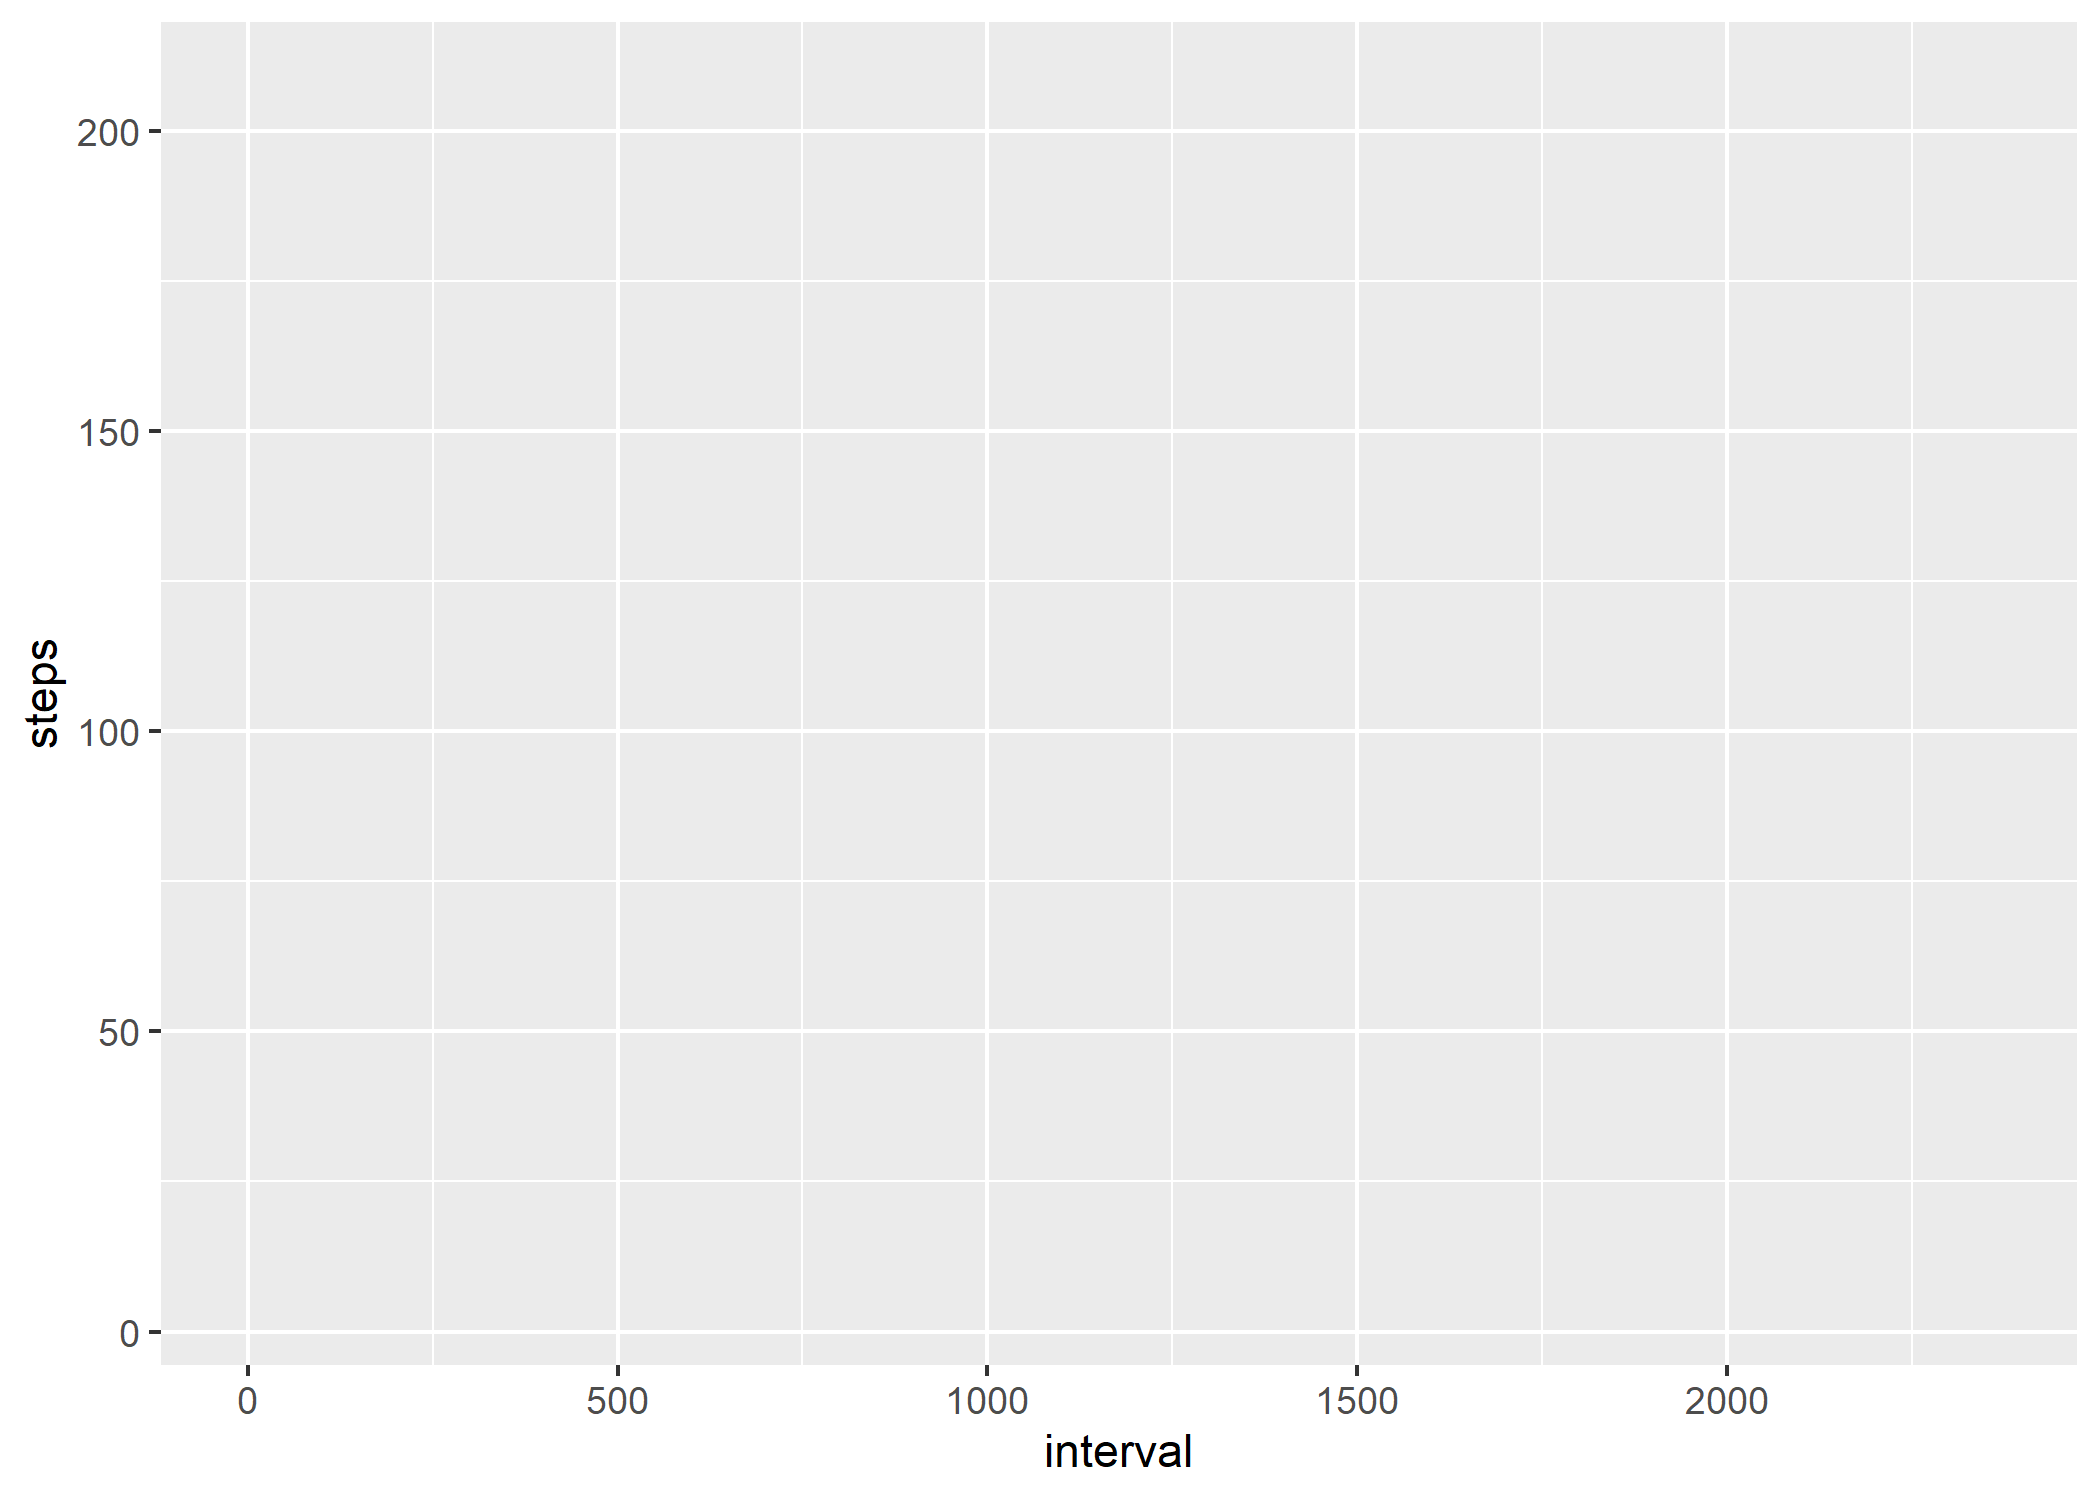
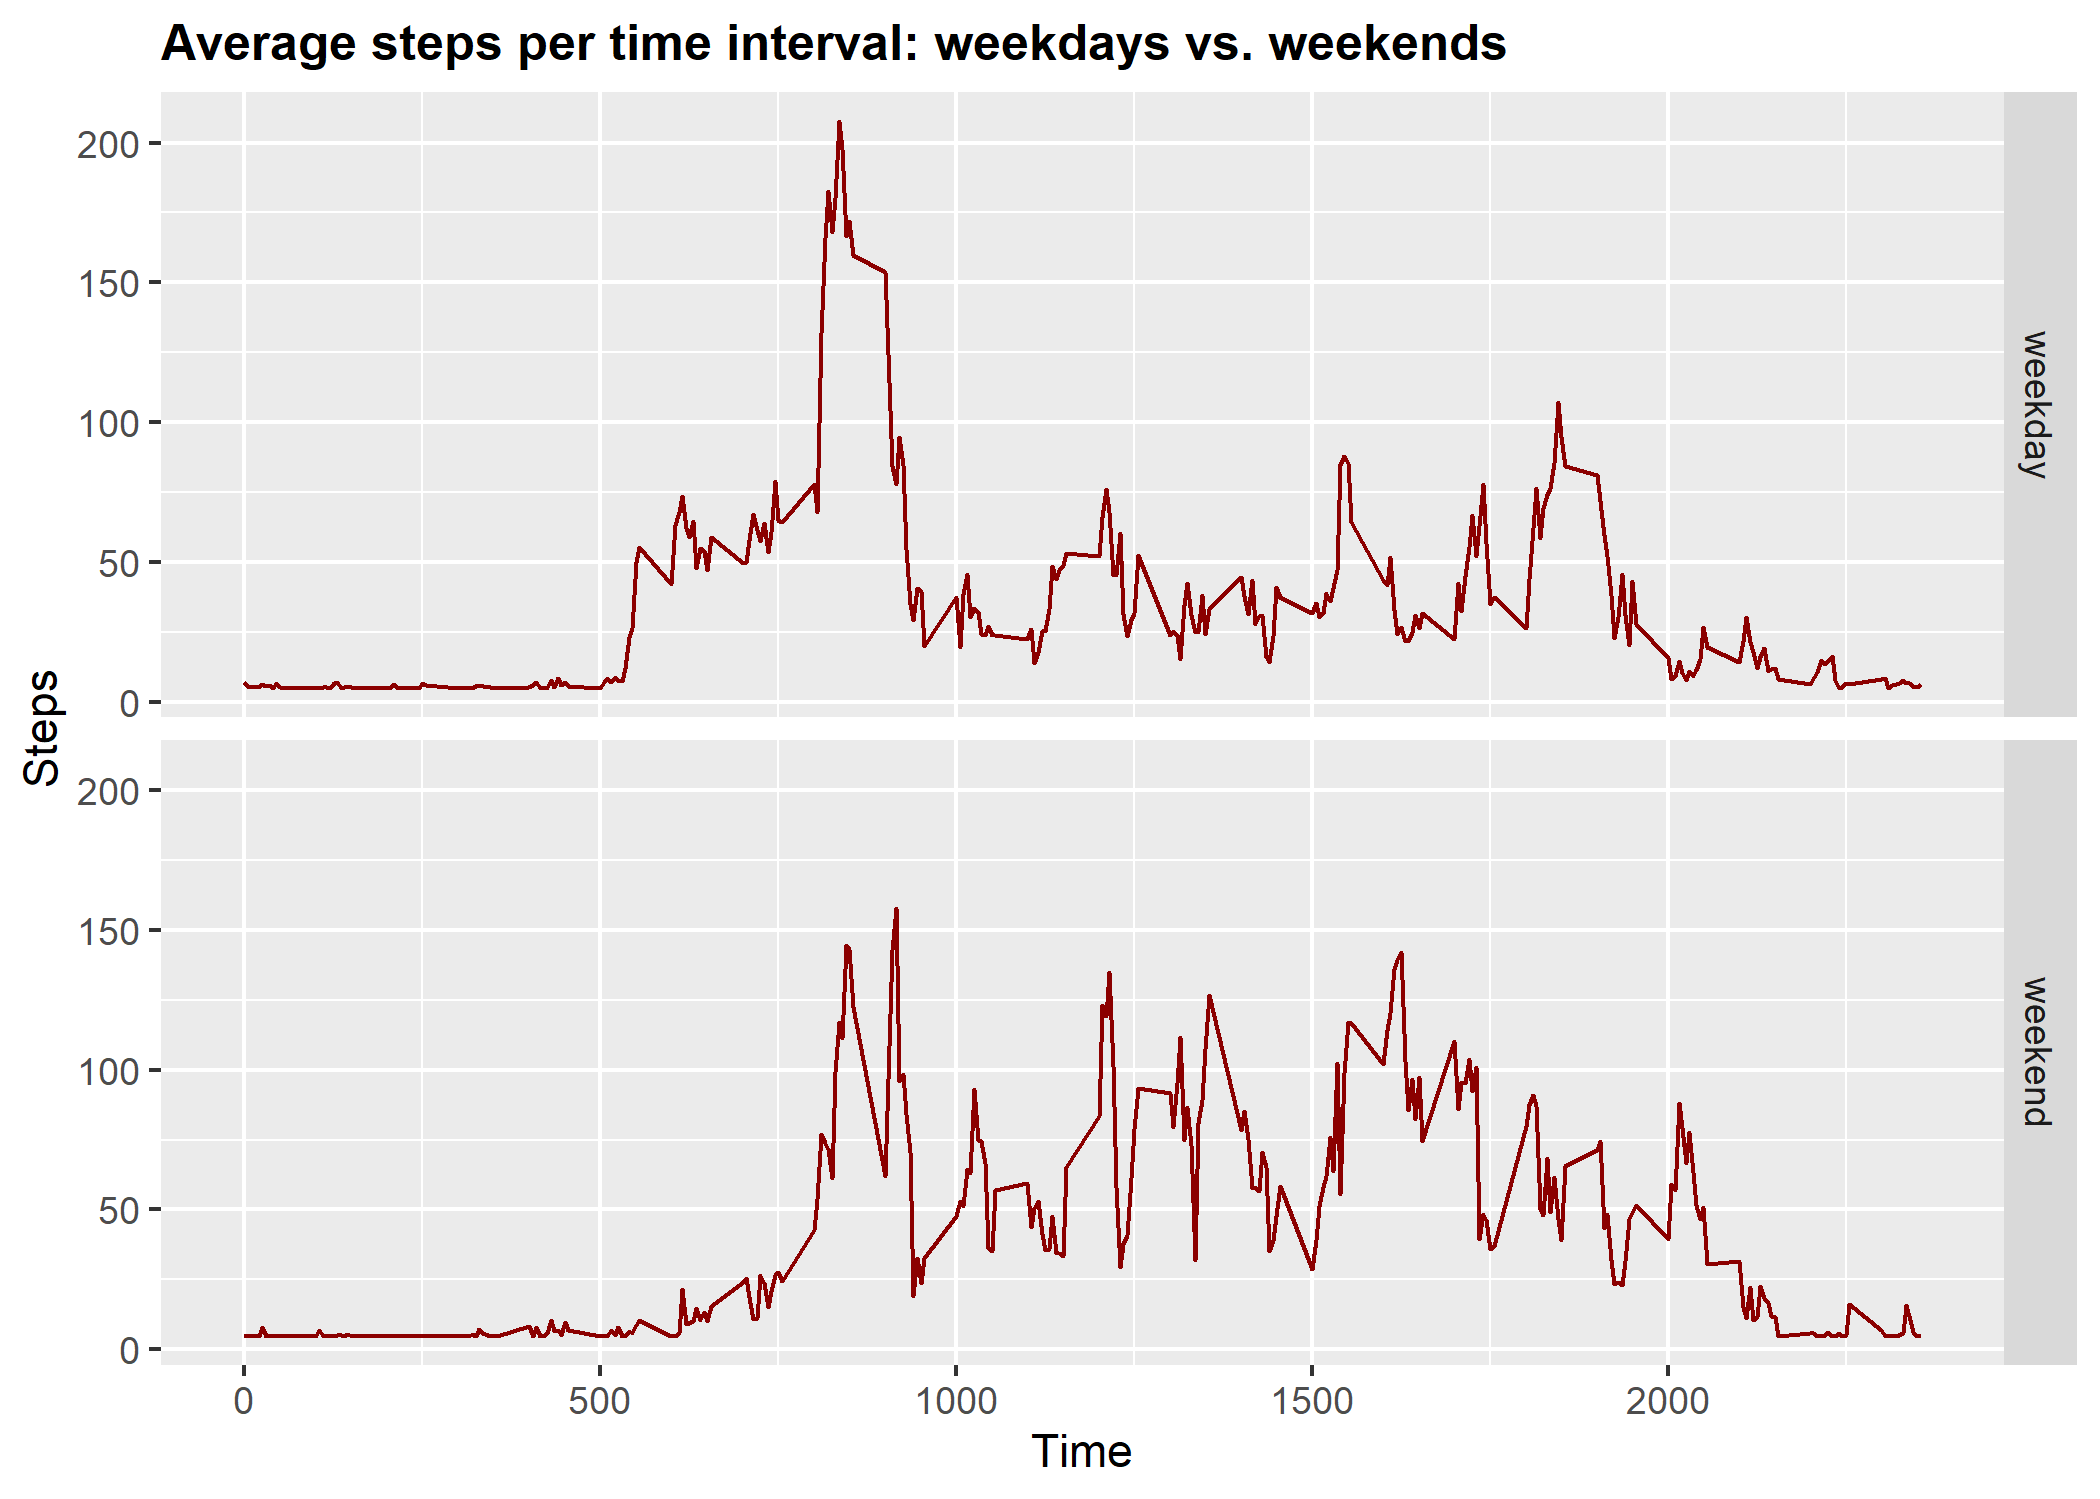
Fix plot 4

diff --git a/Project1.html b/Project1.html
@@ -406,9 +406,10 @@ activitydata3$daytype&lt;-ifelse(activitydata3$weekday==&#39;Saturday&#39;|activ
 stepsperday&lt;-aggregate(steps ~ interval+daytype, data=activitydata3, FUN=mean, action=na.omit)
 
 plot4&lt;-ggplot(stepsperday, aes(interval, steps))
-plot4+geom_line(col=&quot;darkred&quot;)+ggtitle(&quot;Average steps per time interval: weekdays vs. weekends&quot;)+xlab(&quot;Time&quot;)+ylab(&quot;Steps&quot;)+theme(plot.title = element_text(face=&quot;bold&quot;, size=12))+facet_grid(daytype ~ .)</code></pre>
[1 lines of base64/hex data omitted]
-<pre class="r"><code>ggsave(&quot;plot4.png&quot;,plot=plot4)</code></pre>
+plot5&lt;-plot4+geom_line(col=&quot;darkred&quot;)+ggtitle(&quot;Average steps per time interval: weekdays vs. weekends&quot;)+xlab(&quot;Time&quot;)+ylab(&quot;Steps&quot;)+theme(plot.title = element_text(face=&quot;bold&quot;, size=12))+facet_grid(daytype ~ .)
+
+  
+ggsave(&quot;plot4.png&quot;,plot=plot5)</code></pre>
 <pre><code>## Saving 7 x 5 in image</code></pre>
 <p>Comparing the two graphs it does look like there is a difference between the daily average activity levels on the weekends versus weekdays probably due to people having more free time and daytime hours to get outside and away from their desks.</p>
 </div>
